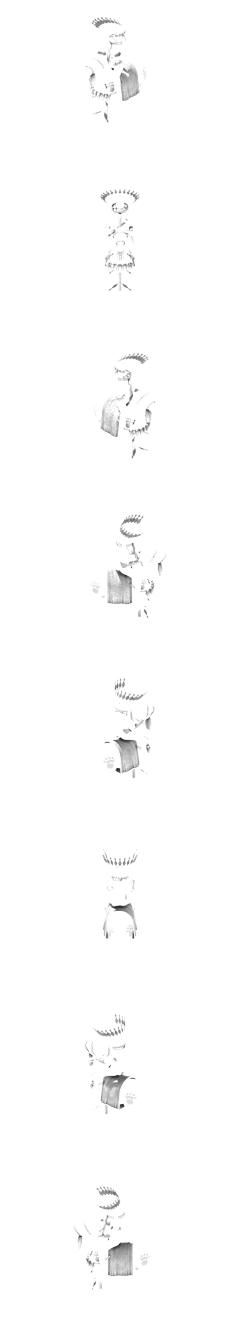
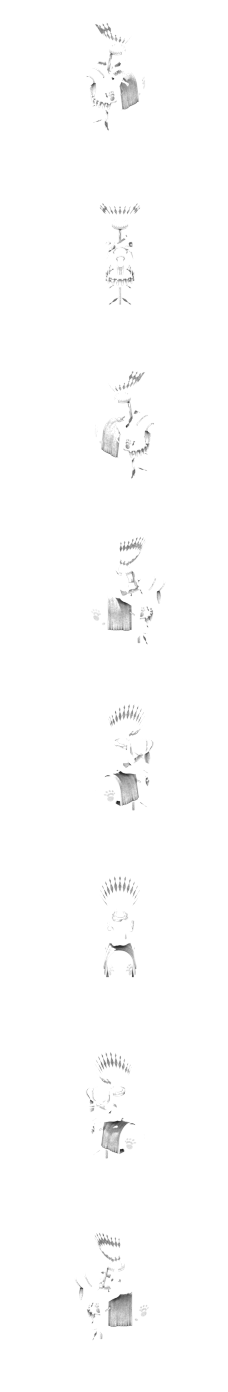
Mounted Warrior: war bonnet faces the right way (halo round the sides and back, face open; reviewed)

diff --git a/ArtGen/units3d/riders.py b/ArtGen/units3d/riders.py
@@ -316,10 +316,11 @@ def feather_bonnet(p, c, tinted, _, trailer=True):
               'plume', smooth=True)
     n = 17
     for i in range(n):
-        a = math.radians(-120 + 240 * i / (n - 1))
+        a = math.radians(60 + 240 * i / (n - 1))   # round the sides and back (from +Y, the front): the face stays open
         base = (0.11 * math.sin(a), 0.11 * math.cos(a), 0.03)
-        mid = (0.19 * math.sin(a), 0.15 * math.cos(a) - 0.08, 0.19)
-        tip = (0.25 * math.sin(a), 0.17 * math.cos(a) - 0.16, 0.3)   # swept back
+        up = 0.17 * max(0.0, -math.cos(a))   # tallest at the back, so the halo rises over the head seen from the front
+        mid = (0.19 * math.sin(a), 0.16 * math.cos(a) - 0.03, 0.2 + up * 0.5)
+        tip = (0.27 * math.sin(a), 0.21 * math.cos(a) - 0.06, 0.33 + up)   # fanned out round the head
         props.feather_card(p, base, mid, (math.sin(a), math.cos(a), 0.0), 0.05, 'plume', curl=-0.08)
         props.feather_card(p, mid, tip, (math.sin(a), math.cos(a), 0.0), 0.05, 'tint', tint=True, curl=-0.08)
     if trailer:
